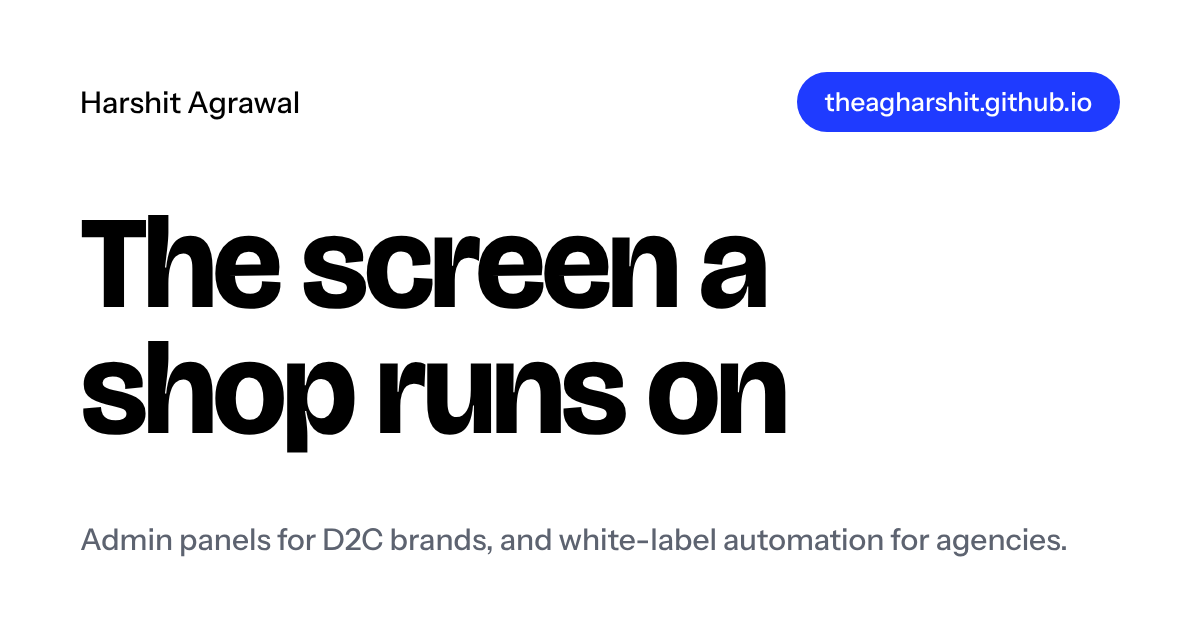
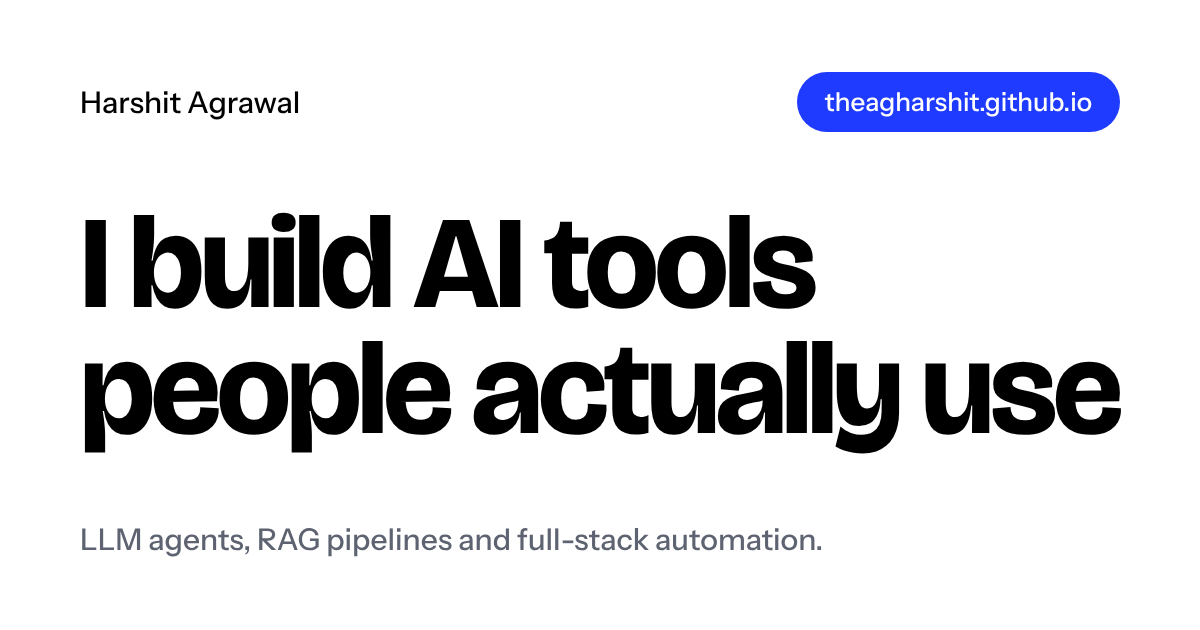
Rewrite copy around AI systems with real users
New projects: AI Chef Agent, LinkedIn Post Generator Agent, Smart India
Hackathon ML project; GA4 Insights Engine renamed GA4 Analytics Agent.
Home and About rewritten from Harshit's own description; stack, leadership
(DelTech MUN, 50+ MUNs) and contact copy updated; new share image.

Claude-Session: https://claude.ai/code/session_01So8uYxLg4T3p1k1c9oCZNp

Changed region(s): [[0.0617, 0.5429, 0.9558, 0.7238], [0.0617, 0.3317, 0.6783, 0.5127], [0.0617, 0.8143, 0.8942, 0.9048]]

diff --git a/src/styles/site.css b/src/styles/site.css
@@ -198,3 +198,13 @@
 .card:hover .card-title a { text-decoration: underline; text-decoration-thickness: 2px; text-underline-offset: 0.15em; text-decoration-color: var(--cobalt); }
 .muted { color: var(--muted); font-size: var(--step--1); }
 @media (max-width: 24rem) { .nav__links .nav__hide { display: none; } }
+.offers--3 { grid-template-columns: repeat(3, minmax(0, 1fr)); }
+.offers--3 .offer { padding: var(--s-6); }
+.offers--3 .offer h3 { font-size: var(--step-2); }
+.offers--3 .offer > p { font-size: var(--step-0); }
+.card--wide { grid-column: span 6; flex-direction: row; align-items: flex-end; justify-content: space-between; gap: var(--s-6); }
+.card--wide > div { display: flex; flex-direction: column; gap: var(--s-4); max-width: 60ch; }
+.card--wide .text-link { position: relative; z-index: 1; white-space: nowrap; }
+@media (max-width: 64rem) { .offers--3 { grid-template-columns: minmax(0, 1fr); } }
+@media (max-width: 44rem) { .card--wide { grid-column: auto; flex-direction: column; align-items: flex-start; } }
+.about-body { color: var(--ink); max-width: 56ch; }

diff --git a/tools/og.html b/tools/og.html
@@ -9,6 +9,6 @@ h1{font-family:B;font-weight:750;font-size:132px;line-height:.95;letter-spacing:
 p{font-size:30px;margin:0;color:#5d6370}
 .fav{width:180px;height:180px;background:#1f3bff;color:#fff;font-family:B;font-weight:750;font-size:120px;display:flex;align-items:center;justify-content:center;border-radius:40px;letter-spacing:-.04em}
 </style></head><body>
-<div class="og" id="og"><div class="top"><span>Harshit Agrawal</span><span class="pill">theagharshit.github.io</span></div><h1>The screen a<br>shop runs on</h1><p>Admin panels for D2C brands, and white-label automation for agencies.</p></div>
+<div class="og" id="og"><div class="top"><span>Harshit Agrawal</span><span class="pill">theagharshit.github.io</span></div><h1>I build AI tools<br>people actually use</h1><p>LLM agents, RAG pipelines and full-stack automation.</p></div>
 <div class="fav" id="fav">H</div>
 </body></html>

diff --git a/src/site.ts b/src/site.ts
@@ -1,7 +1,7 @@
 // One place for contact details and profile links used across the site.
 export const SITE = {
   name: 'Harshit Agrawal',
-  description: 'Harshit Agrawal builds admin panels for D2C brands and white-label automation for agencies. Based in Delhi.',
+  description: 'Harshit Agrawal builds AI systems that real people use: LLM agents, RAG pipelines and full-stack automation. CSE at DTU, Delhi.',
   whatsapp: 'https://wa.me/918368295573',
   phone: '+91 83682 95573',
   email: 'agrawalharshit324@gmail.com',

diff --git a/src/content/work/ga4-analytics-agent.md b/src/content/work/ga4-analytics-agent.md
@@ -1,0 +1,22 @@
+---
+title: GA4 Analytics Agent
+summary: Automates marketing report generation end to end, from pulling GA4 data to writing the report. Built for a client.
+kind: AI agent
+status: In use
+stack: [JavaScript, GA4 API, n8n]
+order: 2
+home: true
+result: About 80% less manual reporting
+---
+
+## What the client needed
+
+Every report meant pulling numbers out of Google Analytics by hand and writing them up again.
+
+## What it does
+
+On a schedule, the agent pulls traffic and conversion metrics from GA4, works out what changed week on week and writes the summary, so the report arrives finished instead of being assembled by hand.
+
+## Result
+
+It removed roughly 80% of the manual reporting effort.

diff --git a/src/content/work/linkedin-post-generator-agent.md b/src/content/work/linkedin-post-generator-agent.md
@@ -1,0 +1,16 @@
+---
+title: LinkedIn Post Generator Agent
+summary: Takes a LinkedIn post from first idea to finished draft, with a person in the loop to review it.
+kind: AI agent
+status: Built
+order: 3
+home: true
+---
+
+## What it does
+
+The agent automates the slow parts of writing for LinkedIn: coming up with the idea and developing it into a complete post.
+
+## How it is built
+
+It follows a human-in-the-loop design. The agent does the ideation and drafting, and a person reviews and approves the work before anything is posted, so the voice stays theirs.

diff --git a/src/content/work/ai-chef-agent.md b/src/content/work/ai-chef-agent.md
@@ -1,0 +1,16 @@
+---
+title: AI Chef Agent
+summary: A recipe-generation agent, deployed and used by real people.
+kind: AI agent
+status: Live
+order: 1
+home: true
+---
+
+## What it does
+
+The AI Chef Agent generates recipes for the people using it.
+
+## Why it matters
+
+It is deployed and in use by real users. The work did not stop at a model that produces good output in a notebook: it carried on to a product people come back to.

diff --git a/src/content/work/smart-india-hackathon-ml-project.md b/src/content/work/smart-india-hackathon-ml-project.md
@@ -1,0 +1,11 @@
+---
+title: ML project, Smart India Hackathon
+summary: A machine learning project built and presented at the Smart India Hackathon, a national-level competition.
+kind: Hackathon
+status: Presented
+order: 6
+---
+
+## What it was
+
+A machine learning project I built and presented at the Smart India Hackathon, one of India's national-level hackathons.

diff --git a/src/content/work/employee-management-system.md b/src/content/work/employee-management-system.md
@@ -4,7 +4,8 @@ summary: An internal tool for HR records, search and reporting, replacing a spre
 kind: Internal tool
 status: Built
 stack: [React, TypeScript, Express.js]
-order: 4
+order: 7
+home: false
 ---
 
 ## What the team needed

diff --git a/src/content/work/d2c-order-and-inventory-system.md b/src/content/work/d2c-order-and-inventory-system.md
@@ -5,8 +5,8 @@ kind: Client project
 status: In build
 year: "2026"
 stack: [Next.js, Prisma, Postgres]
-order: 2
-home: true
+order: 5
+home: false
 ---
 
 ## What the brand needed

diff --git a/src/content/work/mahadev-ply-center.md b/src/content/work/mahadev-ply-center.md
@@ -6,7 +6,7 @@ status: Live
 year: "2026"
 stack: [Hosted on Cloudflare]
 link: https://mahadevplycenter.com.np/
-order: 1
+order: 4
 home: true
 ---
 
